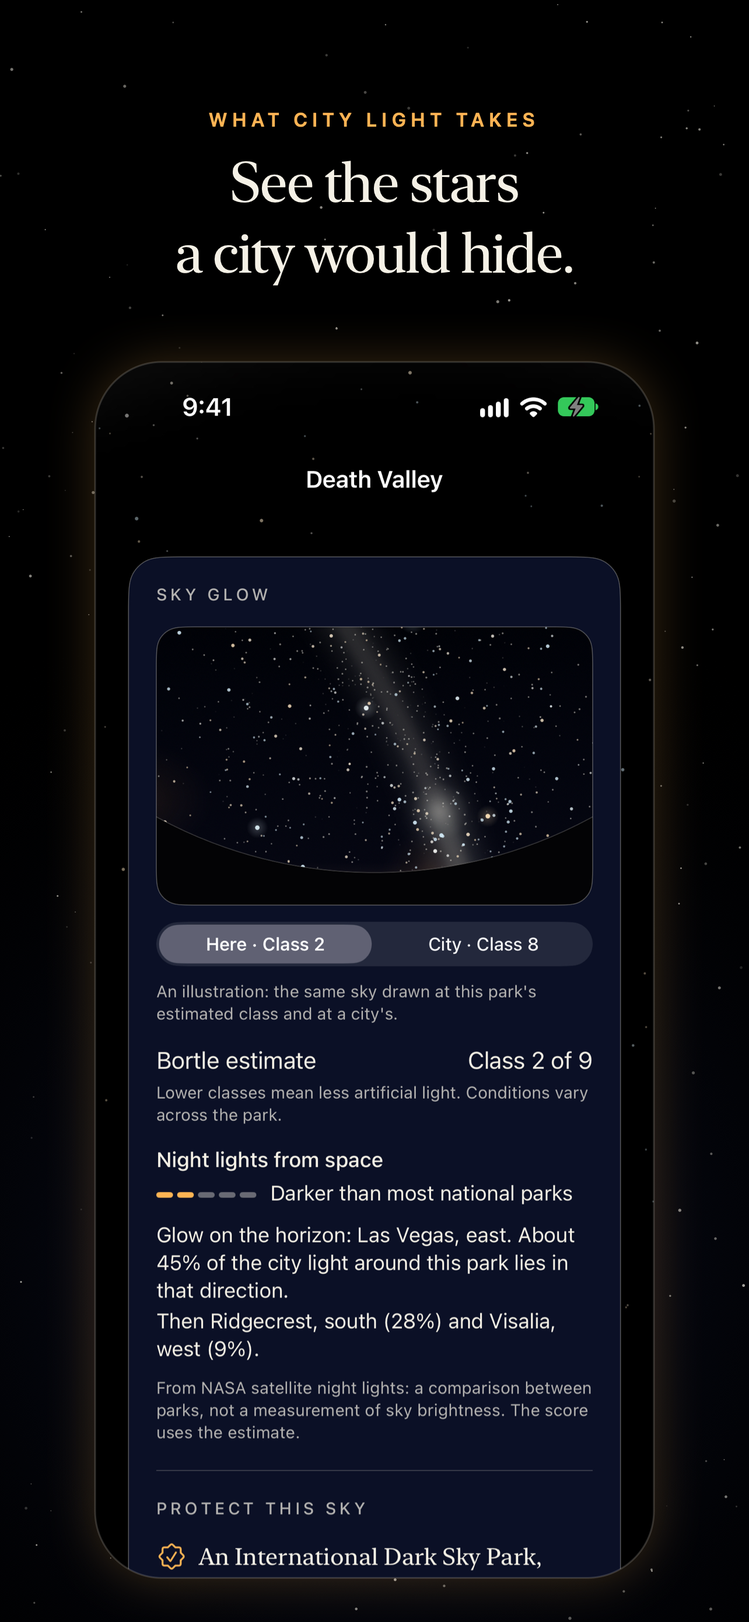
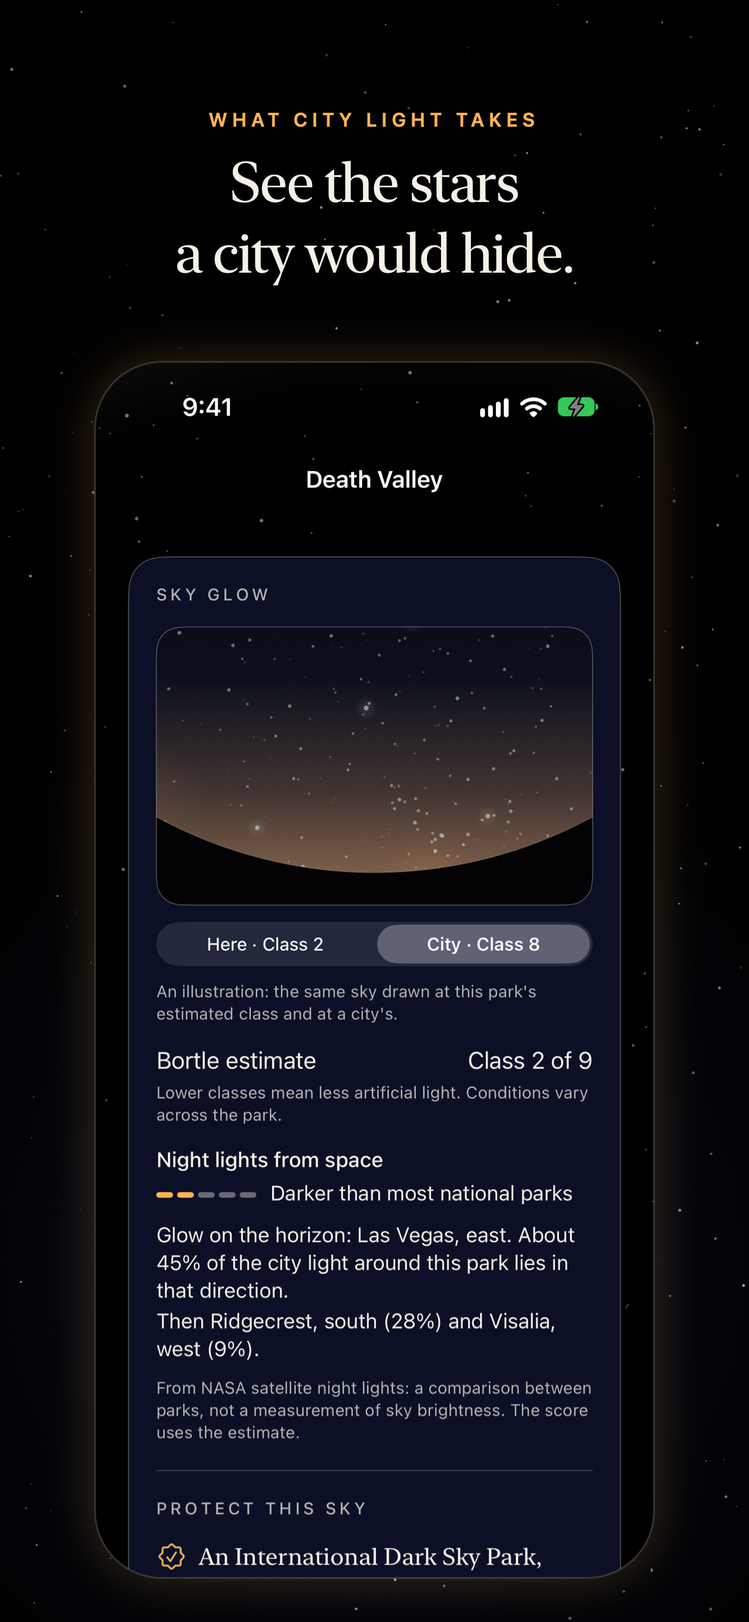
Store frame 08 shows what its caption says: retaken with the city's sky selected (City · Class 8, now in the store capture's frame list), so "See the stars a city would hide." sits over the same sky as a city would show it, framed for the 6.3, 6.9 and 6.5-inch slots; social card 04 and its alt text 

Changed region(s): [[0.1869, 0.3715, 0.81, 0.6192]]

diff --git a/Scripts/capture_store.py b/Scripts/capture_store.py
@@ -47,8 +47,9 @@ shots=[
  # Beyond the forecast, so the header's score says it uses the park's usual clouds.
  ('compass',['-nyx-screen','field-compass','-nyx-state','live','-nyx-date','2027-07-03','-nyx-field-minutes','225']),
  ('calendar',['-nyx-screen','calendar','-nyx-state','live']),
- # The Place chapter at Death Valley: the park's own sky, the 'City · Class 8' switch and 'An illustration'.
- ('city-light',['-nyx-screen','light','-nyx-state','live','-nyx-park','deva']),
+ # The Place chapter at Death Valley with the city's sky selected ('City · Class 8'), so the frame shows what
+ # 'See the stars a city would hide.' claims: the same sky with a city's glow, and 'An illustration' under it.
+ ('city-light',['-nyx-screen','light','-nyx-state','live','-nyx-park','deva','-nyx-glow-compare','city']),
  ('parks-map',['-nyx-screen','parks','-nyx-state','live','-nyx-parks-map']),
  ('constellation',['-nyx-screen','journal','-nyx-state','populated']),
 ]

diff --git a/PHASE_STATUS.md b/PHASE_STATUS.md
@@ -5,10 +5,11 @@ Branch `main`, version **1.2**, build **10** in `project.yml` (build 8 was uploa
 
 **Round two (October 9, after the re-judging).** Five more lanes, each logged under "Award round two — 2026-10-09 (…)" in `DECISIONS.md`: *TOUCH* — touch and hold the sky arc's picture to read any hour and feel the Moon's hum with VoiceOver off (a flick still scrolls, the page holds still), one continuous twilight in place of 96 columns, and Ask Nyx's cited records first with the rest folded under an amber disclosure; *INSTRUMENT* — one dial composition everywhere (Tonight's hero is always the 240 pt ring with its word inside), a sweep carries the numeral with the needle and a band word appears only once the moving number is in its band, a quieter sky on Plan and the Parks list, a legible amber stepper and best-night buttons on the large-text river, and a loupe that names the night under the finger; *SKY* — Tonight's sky names the six brightest IAU stars in view and draws hairline constellation figures from the star lore now shared with Vision Pro, coasts on the shared spring, starts its eyes-adapting reveal at 0.3 and says "Outdoors, this takes about 30 minutes."; *LOOP* — a saved night arrives in the journal's constellation as a star, "Record a night" sits inside the empty constellation on iPhone and iPad, field mode says each fact once, and the map's inset names and the light-dome line fit and say what they mean; *STORE* — the iPhone store set recaptured from build 10, real sky first, in `Store/1.2 v10/` with four social cards. The close: the accessibility audit now opens a screen in its own fixture state (`ask:answered`), and Tonight's sky and Ask Nyx's checked answer joined the every-screen passes; it found one real issue, the checked answer's "Numbers checked against the records" line taken for a too-small target, fixed by marking it as text.
 - **Verified for round two (2026-10-09, Xcode 27.0):** app builds from emptied build folders for iOS 27 (iPhone 18 Pro), iOS 26.5 (iPhone 17 Pro) and the iPad Pro 13-inch (iOS 27): BUILD SUCCEEDED, zero warnings; NyxWatch and NyxVision: BUILD SUCCEEDED, zero warnings. Unit suite: 484 Swift Testing tests in 49 suites pass on iOS 27 (10.2 s) and on iOS 26.5 (9.6 s). Accessibility audit on iOS 27: 27 screens in both palettes (every screen the five lanes touched, plus Plan, Learn, Settings, the trip planner, the recap, first light, onboarding and the share review), 15 key screens at AX5 with Increase Contrast and Bold Text in both palettes, and the minimised tab bar in both palettes: all pass, no new exemption. The 10 UI tests in `NyxUITests` (the arc hold and Ask Nyx's cited-first order among them) pass on iOS 27. `apply_translations.py --check`: Localizable, InfoPlist and NyxVision ok. Tracked files carry no tool references.
-- **Still deferred after round two** (each logged in `DECISIONS.md`): the device checks for the arc's hold and hum, the coasting sky at 60 fps on an iPhone 12, the arriving star against a real sheet and the dial's sweep at 120 Hz (`INPUT_NEEDED.md` step 9, "round two" bullets); the iPad, Watch and Vision Pro store sets and the App Preview (shot 3's Moon route); the Spanish store frames until the native review; "any hour." alone on the arc caption's second line on a 6.3-inch iPhone; "models" / "range 55–83" splitting at AX5 on the river caption; a backdated night shifting its park's older stars during an arrival; the board's other nice-to-haves (Ask Nyx's streaming red, the range ticks near 100, the Live Activity's "as of" day, the forecast-ends marker beside the loupe, the quarter Moon's limb, the iOS 26 status bar in captures, the night-vision switch spoken twice).
+- **Still deferred after round two** (each logged in `DECISIONS.md`): the device checks for the arc's hold and hum, the coasting sky at 60 fps on an iPhone 12, the arriving star against a real sheet and the dial's sweep at 120 Hz (`INPUT_NEEDED.md` step 9, "round two" bullets); the iPad, Watch and Vision Pro store sets and the App Preview (shot 3's Moon route); the Spanish store frames until the native review; a backdated night shifting its park's older stars during an arrival; the board's other nice-to-haves (the forecast-ends marker beside the loupe, the quarter Moon's limb, the iOS 26 status bar in captures).
+- **Polish after round two** (logged under "Award round two — 2026-10-09 (polish)"): the night-vision switch says its state once under VoiceOver (device check in step 9); the sky arc caption is one sentence to a line; the river's large-text caption keeps "models 59–89" on one line; the dial's models' range is held on the track and its ticks clear of the leading star; Ask Nyx's streaming words carry a dashed margin rule until checked; the Live Activity says "as of 12:10 AM" for an old score from the night's own day; store frame 08 shows the city's sky its caption describes, with social card 04 and its alt text. 486 tests in 49 suites pass on iOS 27; the touched suites pass on iOS 26.5.
 - **Done:** *The reveal* — the score counts with no word beside it, then the band word, the last digit and one light tick land together; each park and night counts once per session (later visits settle in 0.35 s), Tonight's first count waits for onboarding and first light, the double tap for a reminder-worthy night comes 0.8 s after the dial settles, and when the forecast models disagree the dial shows their range as a band, in words under it and to VoiceOver · *The Moon and the share card* — crater relief from NASA's LOLA elevation along the terminator on every Moon from 120 pt (one 4096×3072 atlas, app only, off while scrubbing, faded toward the limb and full Moon), small Moons keep a faint edge near new, and the share card leads with the night (the Moon or "New moon" with a hairline circle, a light serif score, the models' range, the park, date and reason; no gauge; always exported in colour) · *Platform honesty* — a followed night's Live Activity follows the forecast (score, band and closure, "94 · Pristine as of Wed" when old, one activity per park and night), and Ask Nyx streams only grounded words, lists each lookup live and says "Numbers checked against the records" · *The night stays night* — a night without true darkness shows its twilight with only the brightest stars, none under the midnight sun; no dome seam behind the screens; a calmer sky under Increase Contrast; Assistive Access turns red with a Red light row; Smart Invert checked to leave every screen alone; review prompts per version, never in the dark · *Tonight's first screen* — the answer, then the alternatives, then the starting point as one row; one caveat caption; the tab bar shrinks on scroll (never under VoiceOver, Switch Control or accessibility sizes) with a followed night's strip; no ornamental titles; the flashlight switch dips the screen to black and turns red with one soft tap, one glyph in Control Center · *Under the finger* — the time river's 56 pt loupe with paced detents and a Directions row (step-free spots first), Plan's month as a paging pager that follows the finger with skeleton pages and ringed nights drawing in · *Bold Text and touch* — every outline and hairline 1.6× under Bold Text or Increase Contrast with a minimum mark size, and with VoiceOver the sky arc can be felt under the finger (a hum through the night, knocks at true darkness, taps at moonrise and moonset, the park-local time spoken) · *Stars arrive, stars leave* — Tonight's sky arrives as eyes adapt over about four seconds, the Sky glow panel shows the park's own sky beside the same sky at a city's class 8, "A sky worth protecting" quotes Falchi 2016 and Kyba 2023 with a Globe at Night link, in English and Spanish · *Closing fixes* — tied nights ranked by the uncapped sum of their parts, the gauge's rim on twilight skies, numeral tracking, Plan's selection and height per page, onboarding at accessibility sizes, one lamp tap from the root view, store, nomination and award copy brought to build 10 (484 tests in 49 suites after award round two). · *A breakdown that adds up* — the four parts are whole points that always make the sum the caption names (largest remainder), on the park breakdown, the readout and Vision Pro.
 - **Verified 2026-10-09 (this handoff):** Xcode 27.0. The iOS 27 app build from an emptied build folder: BUILD SUCCEEDED in 61 s, zero warnings. The unit suite (iPhone 18 Pro / iOS 27.0): 443 Swift Testing tests in 43 suites pass in 9.3 s (90 s with the build), no failures or warnings in the log. The unit suite on iOS 26.5 (iPhone 17 Pro / iOS 26.5): the same 443 tests in 43 suites pass in 8.7 s (66 s with the build). NyxWatch and NyxVision builds from emptied build folders: BUILD SUCCEEDED in 22 s and 16 s, zero warnings. `apply_translations.py --check`: Localizable, InfoPlist and NyxVision ok. Earlier on October 9: the integration stage reran the accessibility audit, minimised tab bar included, on iOS 27 and 26.5; a capture pass of 129 screens (12 on iOS 26.5, 11 on the iPad 13-inch) fed the re-judging, and 30 iPhone screens (4 on iOS 26.5) and 2 iPad screens were recaptured to check its fixes. UI tests were not rerun for this handoff (only the build number and documents changed). Later on October 9, after award round two: the iOS 27 unit suite reports 484 Swift Testing tests in 49 suites with zero warnings, the count the case study and award entries state.
-- **Known issues:** nothing has run on a physical device; build 10's haptics, 120 Hz motion, direct touch, the Moon's relief strength (tuned by eye; ±30% depending on how the shader receives colour), the atlas's ~48 MB of texture memory and Ask Nyx's answers with citations generated first (the system model does not run in the simulator) are on the device pass (`INPUT_NEEDED.md` step 9, "Build 10's new work"). · The iPhone store frames and the four social cards were recaptured from build 10 in award round two (`Store/1.2 v10/`, real sky first, one gauge in the first three); the iPad, Watch and Vision Pro frames (`Store/1.1 v8/`) and the App Preview still predate build 10, and the device pass may require a retake of any iPhone frame whose screen it changes. · Captures not taken: the light route and Tonight's From home panel on iOS 26.5 (audited there only through the Tonight key screen; the iOS 26 captures from the Sky glow lane predate its fixes); the share card's models' range (the `share-disagree` route lands on an early-look night; the range under the dial was seen on tonight-disagree, 73–96, and detail-offline, 55–83); the 9:16 story; xLarge to xxxLarge standard sizes and a 375 pt phone for the city segments; the 6.1-inch Tonight (worked out, not measured); `editor-photo-ax5-bottom` shows the plain editor, not the photo state; the share review at AX5 is the rendered card, so it is no separate check. · Audit and tests: `testMinimisedTabBarPassesTheAudit` is flaky on iOS 27 (the bar did not minimise on a first run, passed on rerun); on iOS 26.5 the system bar sometimes re-expands under the audit, and the 2-second re-audit excuses only findings whose elements have vanished; Tonight's starting-point row still uses `ViewThatFits` (the audit calls its texts partially Dynamic Type, failing only at AX5; if it ever clips, give it the `TitleValueLayout` treatment, not an exemption); the Parks band labels keep their exemption on the standard passes; `testCityLightSegmentsSpeakAsShown` assumes the segments fit on an iPhone 18 Pro. · Behaviour to know: a count already started keeps playing behind Control Center (the hold applies in the background only); DEBUG capture routes load forecasts after the first frame, so Tonight's dial can sweep from one park to another there (a real launch reads caches first); the time to answer (about 2.5 s) was measured on a score of 22, and about 650 ms between first frame and the gauge's first task is unexplained; a pending Live Activity is re-requested only while Nyx is in the foreground and the end-and-request path is untested on a device; in night vision Ask Nyx's streaming and checked words are the same red; with VoiceOver the night-vision switch may say its state twice; with direct touch, the arc's legend and times also hum; the 2.6 pt minimum grows the lowest-score marks slightly and under Bold Text unfilled marks near a Pristine dot's size; the river's loupe covers a night or two either side near the first nights (by design); on a 6.3-inch iPhone Best stretch's card starts under the tab bar with only its dates visible, as in build 9; the pager rebuilds once on first appearance (harmless); Ask Nyx can name a crescent that sets before true darkness over the new Moon when the uncapped sums differ by less than half a point (Arches, Oct 15 over Oct 9; consistent with the moonlight model, logged); Hot Springs gets no city comparison; Smart Invert was not seen inside Assistive Access or field mode; protan eyes get 3.89:1 for muted text on the standard red over the polar twilight's bottom edge (the brighter red fixes it). · Deferred, logged in `DECISIONS.md`: a veil keeping background stars off text rows (lifted on Plan and the Parks list in round two); capping the quarter Moon's limb highlight; an overcast night's number beside a smaller cloud in Plan; the month tick when the scroll target is chosen; the warm edge glow on the Spanish share card; tighter spacing for long starting-point names; overriding the status bar in iOS 26 captures; onboarding's first page at AX5 still continues under the page dots (the indicator flashes and it scrolls); the get-nyx.com light page and a Dark Sky Week In-App Event wait for the recapture. · The Spanish essay and new strings are drafts (step 11). Nothing is pushed: pushing `main` redeploys get-nyx.com (step 20).
+- **Known issues:** nothing has run on a physical device; build 10's haptics, 120 Hz motion, direct touch, the Moon's relief strength (tuned by eye; ±30% depending on how the shader receives colour), the atlas's ~48 MB of texture memory and Ask Nyx's answers with citations generated first (the system model does not run in the simulator) are on the device pass (`INPUT_NEEDED.md` step 9, "Build 10's new work"). · The iPhone store frames and the four social cards were recaptured from build 10 in award round two (`Store/1.2 v10/`, real sky first, one gauge in the first three); the iPad, Watch and Vision Pro frames (`Store/1.1 v8/`) and the App Preview still predate build 10, and the device pass may require a retake of any iPhone frame whose screen it changes. · Captures not taken: the light route and Tonight's From home panel on iOS 26.5 (audited there only through the Tonight key screen; the iOS 26 captures from the Sky glow lane predate its fixes); the share card's models' range (the `share-disagree` route lands on an early-look night; the range under the dial was seen on tonight-disagree, 73–96, and detail-offline, 55–83); the 9:16 story; xLarge to xxxLarge standard sizes and a 375 pt phone for the city segments; the 6.1-inch Tonight (worked out, not measured); `editor-photo-ax5-bottom` shows the plain editor, not the photo state; the share review at AX5 is the rendered card, so it is no separate check. · Audit and tests: `testMinimisedTabBarPassesTheAudit` is flaky on iOS 27 (the bar did not minimise on a first run, passed on rerun); on iOS 26.5 the system bar sometimes re-expands under the audit, and the 2-second re-audit excuses only findings whose elements have vanished; Tonight's starting-point row still uses `ViewThatFits` (the audit calls its texts partially Dynamic Type, failing only at AX5; if it ever clips, give it the `TitleValueLayout` treatment, not an exemption); the Parks band labels keep their exemption on the standard passes; `testCityLightSegmentsSpeakAsShown` assumes the segments fit on an iPhone 18 Pro. · Behaviour to know: a count already started keeps playing behind Control Center (the hold applies in the background only); DEBUG capture routes load forecasts after the first frame, so Tonight's dial can sweep from one park to another there (a real launch reads caches first); the time to answer (about 2.5 s) was measured on a score of 22, and about 650 ms between first frame and the gauge's first task is unexplained; a pending Live Activity is re-requested only while Nyx is in the foreground and the end-and-request path is untested on a device; with direct touch, the arc's legend and times also hum; the 2.6 pt minimum grows the lowest-score marks slightly and under Bold Text unfilled marks near a Pristine dot's size; the river's loupe covers a night or two either side near the first nights (by design); on a 6.3-inch iPhone Best stretch's card starts under the tab bar with only its dates visible, as in build 9; the pager rebuilds once on first appearance (harmless); Ask Nyx can name a crescent that sets before true darkness over the new Moon when the uncapped sums differ by less than half a point (Arches, Oct 15 over Oct 9; consistent with the moonlight model, logged); Hot Springs gets no city comparison; Smart Invert was not seen inside Assistive Access or field mode; protan eyes get 3.89:1 for muted text on the standard red over the polar twilight's bottom edge (the brighter red fixes it). · Deferred, logged in `DECISIONS.md`: a veil keeping background stars off text rows (lifted on Plan and the Parks list in round two); capping the quarter Moon's limb highlight; an overcast night's number beside a smaller cloud in Plan; the month tick when the scroll target is chosen; the warm edge glow on the Spanish share card; tighter spacing for long starting-point names; overriding the status bar in iOS 26 captures; onboarding's first page at AX5 still continues under the page dots (the indicator flashes and it scrolls); the get-nyx.com light page and a Dark Sky Week In-App Event wait for the recapture. · The Spanish essay and new strings are drafts (step 11). Nothing is pushed: pushing `main` redeploys get-nyx.com (step 20).
 - **Next:** (1) the owner's device pass on build 10 (`INPUT_NEEDED.md` steps 9–10, including the new "Build 10's new work" list), fixing what it finds; (2) the iPad, Apple Watch and Vision Pro store sets recaptured (the iPhone set is done in `Store/1.2 v10/`, real sky first, with its social cards), the App Preview recorded once shot 3's Moon route is fixed, and a retake of any iPhone frame the device pass changes; (3) archive and upload 1.2 (10) for iOS with the watch and for visionOS (`python3 Scripts/verify_release.py --require-key` first), select build 10 and submit (steps 12–17). Starting point for the next session: `main` at the build 10 handoff commit; the iOS 27 app build should report zero warnings and the unit suite 484 tests in 49 suites (after award round two).
 
 # Nyx handoff — 2026-10-08 (Team review — version 1.2, build 9)

diff --git a/DECISIONS.md b/DECISIONS.md
@@ -1347,3 +1347,13 @@ Shell, compliance and Vision Pro clouds lanes (the park-page lane follows). Gate
 - Tonight's sky (`sky`) and Ask Nyx's checked answer (`ask:answered`) join the every-screen passes in both palettes: both are round-two screens, and both pass with no exemption.
 - Ask Nyx's "Numbers checked against the records" line is marked as text (`isStaticText`), as the What's up rows are: a merged one-line caption with no trait was taken for a 14 pt target. Fixed at the root, no exemption.
 - Round two closed with a device check for the dial's sweep (number with needle, word only inside its band) and the large-text river stepper added to `INPUT_NEEDED.md` step 9, the one round-two lane without one.
+
+## Award round two — 2026-10-09 (polish)
+- The night-vision switch says its state once: when VoiceOver is on the switch (read at the tap from the element VoiceOver is on, by its label, since the toolbar's switch is hosted by UIKit), Nyx skips "Night vision on/off" and the switch's own value speaks; the announcement stays when it was turned from elsewhere with VoiceOver running (Voice Control). The toolbar switch is the only path that announced: Settings, onboarding, Assistive Access and the Control Center control never did, and there is no keyboard shortcut for it. The lamp's request carries the choice to `RootView`. Not verifiable in the simulator; the device check in step 9 now asks for one utterance.
+- The sky arc caption is one sentence to a line ("Moonlit hours are lighter." / "Touch and hold to read any hour."), so "any hour." no longer stands alone on a 6.3-inch iPhone at the default size; at larger sizes each sentence wraps within itself, and with VoiceOver the first sentence alone stays, as before.
+- The time river's large-text caption gives each part a line and keeps it on one line whenever it fits (`ViewThatFits`), and its range reads "models 59–89" there (the standard caption keeps "models range 59–89"): "models range 59–89" is wider than the panel at AX5 on a 6.3-inch iPhone, so no non-breaking space could keep it together. A part too long for the width still wraps with its figures kept to the word before them. VoiceOver's sentence is unchanged.
+- The models' range on the dial is held on the track: the glow's round ends stop at 0 and 100, both ticks stay inside the track's ends, and a tick that would sit under the leading star (within 8 pt of it) moves outward, away from the span, just clear of it (at most about a point and a half of score on Tonight's dial). Where the track has no room beyond the star (a score of 99 or 100 with the range ending at 100), the star is at that end of the range and stands for it, and that tick is left out. `ModelRangeBand.tickAngles`, tested over every half point.
+- Ask Nyx's streaming words carry a dashed rule in the margin until they are checked, in every palette: in night vision muted and starlight are the same red, and opacity alone could not separate them (the standard red reaches 4.5:1 on black only above about 0.85, against 0.96 for muted text). Dashes already mean "not yet final" on the dial; the rule sits outside the text, so nothing reflows when it fades, and the words keep their contrast. The "Checking the numbers against the records" caption stays.
+- The Live Activity names a time, not today, for an old score worked out on the night's own day: more than 18 hours before sunset but after midnight in park time, the face reads "61 · Good as of 12:10 AM" (VoiceOver "as of 12:10 AM") instead of the day's own weekday. In October that window is the first minutes after midnight; in summer, until about 2 AM. A fixture face joins the live-activity review page.
+- Store frame 08 retaken with the city's sky selected (`-nyx-glow-compare city`, now in `capture_store.py`'s frame list), replacing round two's choice of the default "Here" state: under "See the stars a city would hide." the frame showed a sky full of stars, the opposite of the caption; it now shows the same sky as a city would, with the switch on "City · Class 8" and "An illustration" in frame. Captured through the serialized helper with the store script's status bar and arguments, flattened as the script does, framed for the 6.3, 6.9 and 6.5-inch slots; the social card 04 and its alt text follow.
+- `-nyx-screen gauge -nyx-state range -nyx-gauge-range 90-100 -nyx-gauge-score 98`: a DEBUG route for the dial with a models' range, so the ends near 0 and 100 can be seen.

diff --git a/Store/1.2 v10/README.md b/Store/1.2 v10/README.md
@@ -33,14 +33,14 @@ Captured natively at 1206 × 2622 on iPhone 18 Pro (iOS 27.0), which is App Stor
 | `05-field-mode.png` | FIELD MODE / Red light for dark-adapted eyes. | Field mode at Joshua Tree (65 Good), 60 minutes after sunset: "True darkness in 23 min, at 7:39 PM, then 9h 42m of it", the Draconids at their best, the core sinking, eyes adjusting 4 of about 30 minutes |
 | `06-where-to-look.png` | WHERE TO LOOK / Point your iPhone. Find the core. | Where to look at Joshua Tree on July 3, 2027, about 3¾ hours after sunset: the core in the south under the reticle, Mars to the right. Beyond the forecast, so the header says the score (75 Excellent) uses the park's usual clouds |
 | `07-calendar.png` | BEST NIGHTS / Choose the night worth the drive. | Plan, One park: Joshua Tree's October 2026, nights sized by score, the best five-night stretch Oct 13–17 ringed (89, 89, 89, 89, 88), Oct 10 (the new moon) under cloud, forecast, early-look and usual-cloud nights drawn filled, half and hollow, and the best stretch "Tue, Oct 13 – Sat, Oct 17" under the tab bar |
-| `08-city-light.png` | WHAT CITY LIGHT TAKES / See the stars a city would hide. | Death Valley, The place: the Sky glow panel with the park's own drawn sky, the "Here · Class 2 / City · Class 8" switch, "An illustration: the same sky drawn at this park's estimated class and at a city's.", Bortle class 2 of 9, night lights from space, and the glow on the horizon from Las Vegas (45%), Ridgecrest and Visalia. Route: `-nyx-screen light -nyx-state live -nyx-park deva` (the default "Here" state) |
+| `08-city-light.png` | WHAT CITY LIGHT TAKES / See the stars a city would hide. | Death Valley, The place: the Sky glow panel with "City · Class 8" selected, so the drawn sky is the same sky as a city would show it (a few bright stars over an orange horizon glow), "An illustration: the same sky drawn at this park's estimated class and at a city's.", Bortle class 2 of 9, night lights from space, and the glow on the horizon from Las Vegas (45%), Ridgecrest and Visalia. Route: `-nyx-screen light -nyx-state live -nyx-park deva -nyx-glow-compare city` |
 | `09-parks-map.png` | EVERY PARK TONIGHT / 63 parks, darkest first. | Parks map: all 63 parks tonight with the Alaska, Hawaiʻi, American Samoa and Virgin Islands insets, the legend, and "Darkest tonight": Lassen Volcanic, Death Valley and Guadalupe Mountains at 97 |
 | `10-constellation.png` | YOUR CONSTELLATION / Every night becomes a star. Footnote: "Sample entries. Your journal stays on this iPhone." | Journal: the constellation from four sample nights in the Southwest, "4 of 63 national park skies", "Your year under the stars" |
 
 ## Notes
 
 - **Retakes.** Three frames were retaken after the first pass. The score frame first showed the default park (Joshua Tree 65) with its "Oasis of Mara Trail partial closure" line under the title, which dominated the hero and did not match Tonight's lead park; it now shows Death Valley (`-nyx-park deva`), the park Tonight and What's up show, with the same 97. Field mode and Where to look showed the white status bar over red: the DEBUG field routes draw field mode inside the root view, whose status-bar preference won over field mode's; the routes now hide it, as presented field mode does on a device.
-- **City light.** The default "Here · Class 2" state was used: the switch is legible and the "An illustration" caption is in frame, and the park's own stars are what the caption asks the reader to see. `-nyx-glow-compare city` was not needed.
+- **City light.** Retaken on October 9 with the city's sky selected (`-nyx-glow-compare city`): the first take showed the default "Here · Class 2" sky, full of stars, under a caption about the stars a city would hide; the frame now shows the hiding. The switch and "An illustration" stay in frame.
 - **Times.** What's up gives the core's hours to the minute (7:45 – 8:34 PM); the score page's best-window line gives them to the nearest ten minutes (7:50 – 8:30 PM). Both are the app's own rounding of the same night.
 - The calendar's best-stretch card sits under the tab bar, with its dates legible; the route has no scroll control for the Plan tab, and the month is the frame's subject.
 - Scores, forecasts and alerts are live as of October 9, 2026. The owner's device pass (`INPUT_NEEDED.md` step 9) may still require a retake of any frame whose screen it changes.

diff --git a/Store/Social/POSTS.md b/Store/Social/POSTS.md
@@ -101,7 +101,7 @@ Replace `[link]` with the App Store link: `https://apps.apple.com/us/app/nyx-dar
 1. Nyx's full-screen sky over Death Valley for Saturday, July 3, at 12:55 AM, facing south. Headline: "The night sky, before you go." The Milky Way rises from the southern horizon with its core labelled; Altair and Antares are named, and faint lines trace their constellations.
 2. Nyx's Tonight screen for Friday, October 9. Headline: "Where is the sky darkest tonight?" Death Valley is the darkest park within 200 miles, with a Darkness Score of 97, Pristine, on an amber dial.
 3. Nyx's Plan tab for Joshua Tree, October 2026. Headline: "Choose the night worth the drive." Each night is a dot sized by its score, with the score beneath; the best five-night stretch, October 13 to 17, is ringed, with scores of 88 and 89, and October 10 shows a cloud.
-4. Nyx's Sky glow panel for Death Valley. Headline: "See the stars a city would hide." A drawn sky full of stars and the Milky Way, a switch between "Here, Class 2" and "City, Class 8", and the note "An illustration: the same sky drawn at this park's estimated class and at a city's." Below: Bortle estimate, Class 2 of 9.
+4. Nyx's Sky glow panel for Death Valley. Headline: "See the stars a city would hide." The same drawn sky as a city would show it: a few bright stars over an orange glow on the horizon, with "City, Class 8" selected on a switch beside "Here, Class 2", and the note "An illustration: the same sky drawn at this park's estimated class and at a city's." Below: Bortle estimate, Class 2 of 9.
 
 ## Notes
 
